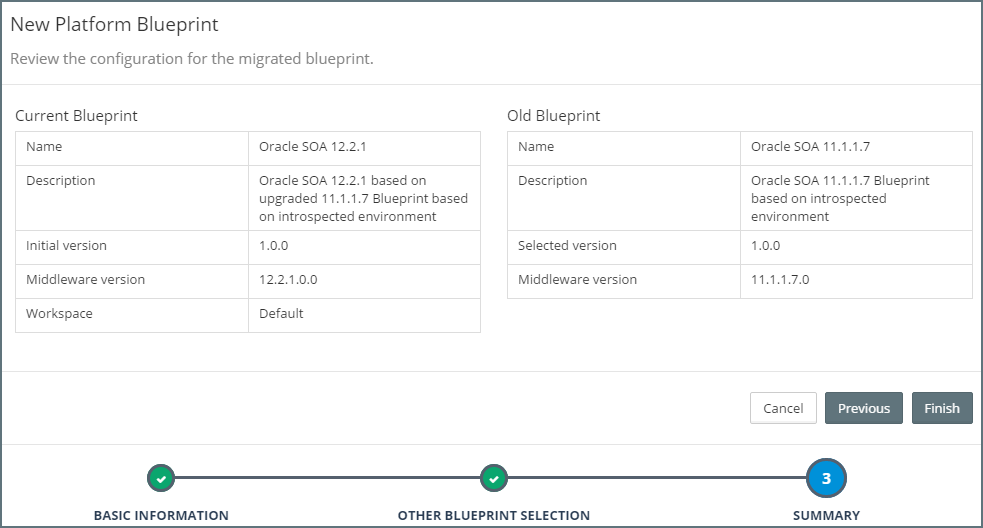
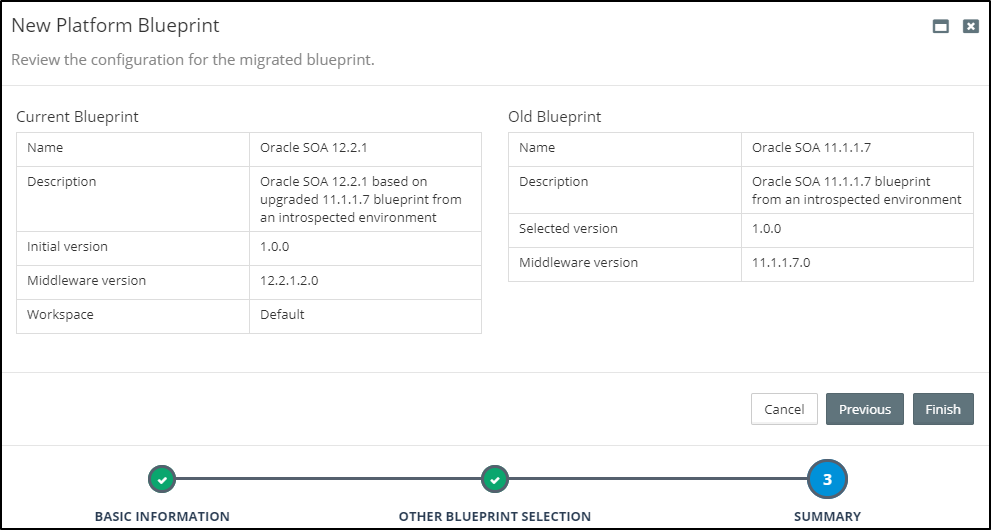
Updated documentation for platform upgrades

diff --git a/platform/upgrade/README.md b/platform/upgrade/README.md
@@ -33,7 +33,7 @@ Finally, specify the target environment(s) for the new upgraded domain. Then at 
 The end-to-end process consists of three simple steps and can be performed in minutes as shown below.
 
 {% hint style='tip' %}
-Although this example is for an 11g to 12c upgrade, the approach would be consistent for alternative version upgrades such as an upgrade from 12.1.3.0.0 to 12.2.1.0.0 or from 12.2.1.0.0 to 12.2.1.1.0.
+Although this example is for an 11g to 12c upgrade, the approach would be consistent for alternative version upgrades such as an upgrade from 12.1.3.0.0 to 12.2.1.2.0 or from 12.2.1.0.0 to 12.2.1.3.0.
 {% endhint %}
 
 ##### Step 1 - Introspect SOA / BPM 11gR1 Domain
@@ -46,7 +46,7 @@ Introspection is only required if the environment to be upgraded was provisioned
 {% endhint %}
 
 ##### Step 2 - Upgrade 11g Platform Blueprint to 12c
-The next step is to upgrade the 11g SOA Platform Blueprint to create a new SOA 12c Platform Blueprint. From the side menu navigate to `Modeling` > `Platform Blueprint`, this will display a list of existing Platform Blueprints. Click on `Create New` in the top right-hand corner of the screen. This will launch the `New Platform Blueprint` wizard.
+The next step is to upgrade the 11g SOA Platform Blueprint to create a new SOA 12c Platform Blueprint. From the side menu navigate to `Modeling` > `Platform Blueprints`, this will display a list of existing Platform Blueprints. Click on `Create New` in the top right-hand corner of the screen. This will launch the `New Platform Blueprint` wizard.
 
 ![](img/platformBlueprintUpgradeStep1.png)
 
@@ -81,19 +81,23 @@ MyST will automatically convert our 11gR1 SOA Platform blueprint to an equivalen
 
 Once created, MyST will open the [Platform Blueprint Editor](/platform/definitions/editor/README.md) where additional configuration changes can be made; for example, we may want to add in the Enterprise Scheduler Service that wasn't included in 11gR1.
 
+![](img/11gPlatformBlueprint.png)
+
 ![](img/12cPlatformBlueprint.png)
 
-If we look closely at the 12c Platform Blueprint, we can see that the number of Data Sources is different. In the 11g Platform Blueprint, there were 12 JDBC Data Sources but in the 12c Platform Blueprint, there are 15 JDBC Data Sources (see box **1** outlined in red above). This is because in SOA 12c, changes were made to database schemas and corresponding JDBC Data Sources required by the Oracle SOA Platform.
+The first image above is that of the 11g Platform Blueprint while the second one below is that of the 12c one we created just now.
 
-When upgrading to 12c, MyST has the knowledge to remove the 11g data sources that are no longer needed and create the additional ones required for 12c. MyST has preserved the three custom data sources, which are colored white (as opposed to product data sources in light green) in the screenshot above.
+If we look closely at the 12c Platform Blueprint, we can see that the number of Data Sources is different. In the 11g Platform Blueprint, there were 10 JDBC Data Sources but in the 12c Platform Blueprint, there are 15 JDBC Data Sources (see box **1** outlined in red above). This is because in SOA 12c, changes were made to database schemas and corresponding JDBC Data Sources required by the Oracle SOA Platform.
+
+When upgrading to 12c, MyST has the knowledge to remove the 11g data sources that are no longer needed and create the additional ones required for 12c. MyST has preserved the one custom data source, `StockDS` which is colored white (as opposed to product data sources in light green) in the screenshot above.
 
 In addition, when the SOA 11gR1 domain was originally created, the middleware version number was specified as part of the Domain Name, for example `acme11g_domain`. The corresponding directory locations `Domain Home`, `Domain Aserver Home`, etc, also have this in their file path (see box **2** outlined in red above).
 
 ![](img/edit12cPlatformBlueprint1.png)
 
-To change this, place the Platform Blueprint into `Edit` mode and update the WebLogic Domain name to `acme12c_domain` and click `Save`.
+To change this, place the Platform Blueprint into `Edit` mode and update the WebLogic Domain name to `acme12c_domain`. Click on `Calculate resolved values` now.
 
-We can see that MyST automatically updates all the other values that reference this property.
+We can see that MyST automatically shows the resolved values based on the new name.
 
 ![](img/edit12cPlatformBlueprint2.png)
 
@@ -150,11 +154,9 @@ Although this example is for a 12.1.3 to 12.2.1 upgrade, the approach would be c
 
 ##### Specify Oracle Middleware Upgrade Version
 
-From the [Blueprint Editor](/platform/definitions/editor/README.md) click `Edit Configuration`. Then, navigate to the `Middleware Settings` and click `Edit` in the Property Panel.
+From the [Blueprint Editor](/platform/definitions/editor/README.md) click `Edit Configuration`. Then, navigate to the `Middleware Settings` in the tree.
 
-![](img/directEditMiddlewareSettings.png)
-
-Change the version to `12.2.1.0.0` and click `Save` in the Property Panel then `Save` for the Blueprint.
+Choose the version, `12.2.1.0.0` from the drop-down, the click `Save` to save the Blueprint.
 
 ![](img/directChangeVersion1221.png)
 
@@ -165,9 +167,13 @@ MyST will automatically convert the 12.1.3 Platform Blueprint to an equivalent 1
 If we look closely at our Platform Blueprint, we can see that there are some subtle differences. For example, if we are using the default Fusion Middleware Home Directory of `/u01/app/oracle/product/fmw1213` we will see that it has changed to `/u01/app/oracle/product/fmw1221`.
 
 {% hint style='danger' %}
-Warning
+If a custom `Home Directory` under `Middleware Settings` is being used, this must be changed so that it is unique before performing an upgrade. For example, if it is set to `/opt/my-company/12.1.3.0.0/soa`, it should be changed to `/opt/my-company/12.2.1.0.0/soa`.
+
+Remember, a reference to the version `${[rxr.wls.Fmw-1].version}` may be used e.g. `/opt/my-company/${[rxr.wls.Fmw-1].version}/soa`. If this property reference is already being used, then it would have changed the path automatically. Once the property reference is set within the `Home Directory`, it will update automatically for future upgrades.
+
+Make sure that any other property references to the version in the configuration which are hardcoded are using a reference, whilst it may not cause the upgrade to fail it will be a source of confusion for the upgraded platform.
 {% endhint %}
-> If a custom `Home Directory` under `Middleware Settings` is being used, this must be changed so that it is unique before performing an upgrade. For example, if it is set to `/opt/my-company/12.1.3.0.0/soa`, it should be changed to `/opt/my-company/12.2.1.0.0/soa`. Remember, a reference to the version `${[rxr.wls.Fmw-1].version}` may be used e.g. `/opt/my-company/${[rxr.wls.Fmw-1].version}/soa`. If this property reference is already being used, then it would have changed the path automatically. Once the property reference is set within the `Home Directory`, it will update automatically for future upgrades. Make sure that any other property references to the version in the configuration which are hardcoded are using a reference, whilst it may not cause the upgrade to fail it will be a source of confusion for the upgraded platform. 
+ 
 Once the upgraded Platform Blueprint has been reviewed, click on `Save & Commit`. When prompted, enter a description for the change.
 
 ![](img/directConfirmUpgradeEdit.png)
@@ -179,9 +185,8 @@ With these minor edits, we are now ready to upgrade our environments. Typically 
 From the `Actions` menu for any Platform Instance, there is the option to `Terminate`. This will destroy the WebLogic Domain on the file system to allow for it to be upgraded. This approach is described in more detail in the section on [Managing Platform Instances](/platform/management/README.md).
 
 {% hint style='danger' %}
-Warning
+Please be aware when this is performed, existing application state will be lost. Do not use this approach for an application architecture with long running processes. In this case, it is advisable to perform a State-preserving Upgrade which can be facilitated by raising a request to [MyST Support](http://support.rubiconred.com).
 {% endhint %}
->Please be aware when this is performed, existing application state will be lost. Do not use this approach for an application architecture with long running processes. In this case, it is advisable to perform a State-preserving Upgrade which can be facilitated by raising a request to [MyST Support](http://support.rubiconred.com).
 
 
 When ready to do a fresh direct upgrade to an instance associated with the upgraded Platform Blueprint, simply trigger the `Terminate` then perform a `Reprovision`.
